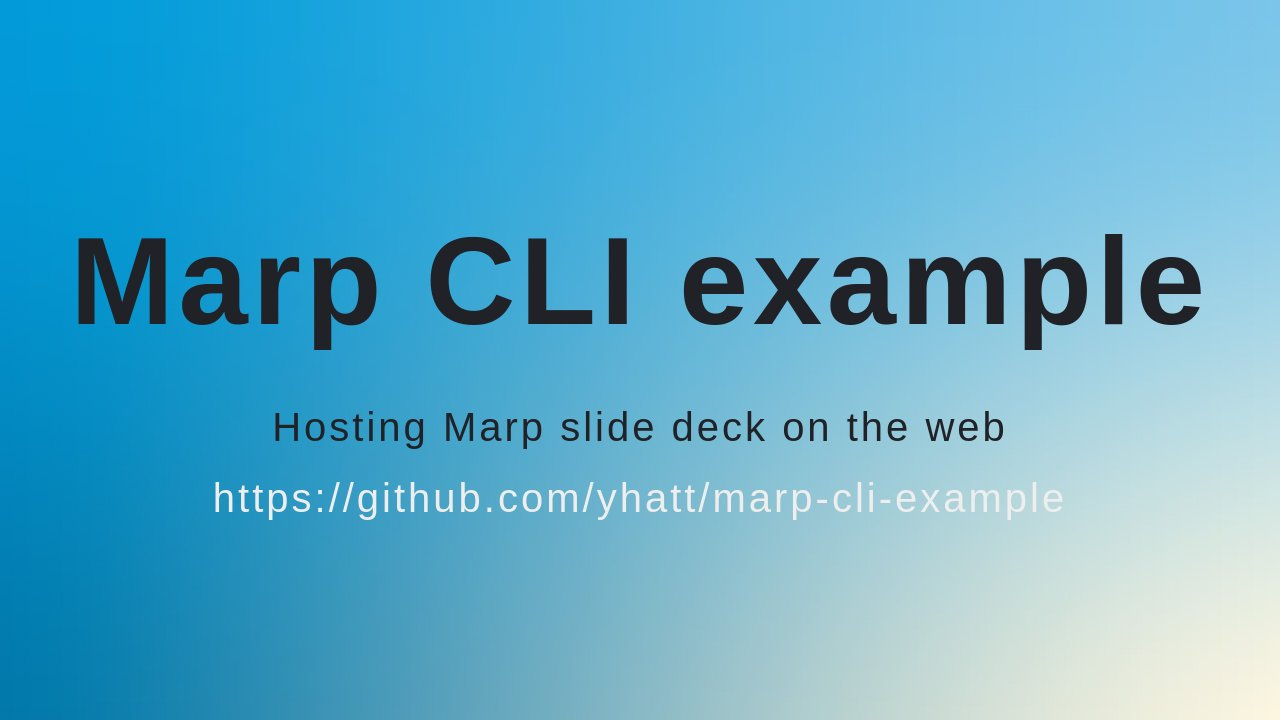
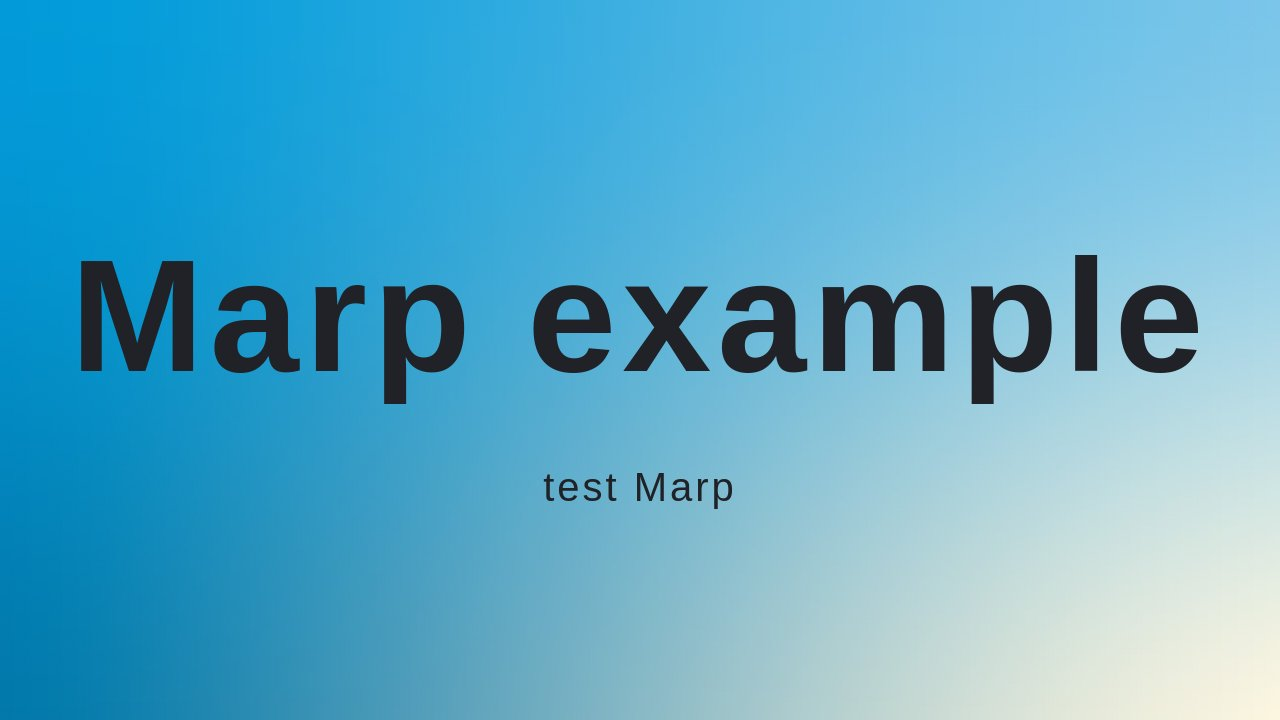
Deploying to gh-pages from  @ 6c0e94545520b8ba8a1bc487dbe098e0b320dc0a 🚀

Changed region(s): [[0.0625, 0.3056, 0.9375, 0.6417], [0.1562, 0.6417, 0.8438, 0.7333]]

diff --git a/index.html b/index.html
@@ -8,38 +8,14 @@
  * @auto-scaling fittingHeader,math
  * @size 16:9 1280px 720px
  * @size 4:3 960px 720px
[1 lines of base64/hex data omitted]
-<h1><svg data-marp-fitting="svg"><foreignObject><span data-marp-fitting-svg-content> Marp CLI example</span></foreignObject></svg></h1>
-<p>Hosting Marp slide deck on the web</p>
-<p><a href="https://github.com/yhatt/marp-cli-example">https://github.com/yhatt/marp-cli-example</a></p>
[1 lines of base64/hex data omitted]
+<h1><svg data-marp-fitting="svg"><foreignObject><span data-marp-fitting-svg-content> Marp  example</span></foreignObject></svg></h1>
+<p>test Marp</p>
 </section>
-</foreignObject><foreignObject width="1280" height="720" data-marpit-advanced-background="pseudo"><section style="" data-marpit-advanced-background="pseudo"></section></foreignObject></svg><svg data-marpit-svg="" viewBox="0 0 1280 720"><foreignObject width="1280" height="720"><section data-paginate="true" data-theme="uncover" data-marpit-pagination="2" data-marpit-pagination-total="8" style="--paginate:true;--theme:uncover;" data-marpit-advanced-background="background"><div data-marpit-advanced-background-container="true" data-marpit-advanced-background-direction="horizontal"><figure style="background-image:url(&quot;https://raw.githubusercontent.com/marp-team/marp/master/marp.png&quot;);background-size:60%;"></figure></div></section></foreignObject><foreignObject width="1280" height="720"><section id="2" data-paginate="true" data-theme="uncover" data-marpit-pagination="2" data-marpit-pagination-total="8" style="--paginate:true;--theme:uncover;" data-marpit-advanced-background="content"></section>
-</foreignObject><foreignObject width="1280" height="720" data-marpit-advanced-background="pseudo"><section style="" data-marpit-advanced-background="pseudo" data-marpit-pagination="2" data-marpit-pagination-total="8"></section></foreignObject></svg><svg data-marpit-svg="" viewBox="0 0 1280 720"><foreignObject width="1280" height="720"><section id="3" data-paginate="true" data-theme="uncover" data-background-color="#123" data-color="#fff" data-marpit-pagination="3" data-marpit-pagination-total="8" style="--paginate:true;--theme:uncover;--background-color:#123;--color:#fff;color:#fff;background-color:#123;background-image:none;">
-<h5><svg data-marp-fitting="svg"><foreignObject><span data-marp-fitting-svg-content> <a href="https://github.com/marp-team/marp-cli">Marp CLI</a> + <a href="https://github.com/pages">GitHub Pages</a> | <a href="https://www.netlify.com/">Netlify</a> | <a href="https://vercel.com/">Vercel</a></span></foreignObject></svg></h5>
-<h5><svg data-marp-fitting="svg"><foreignObject><span data-marp-fitting-svg-content> <img class="emoji" draggable="false" alt="👉" src="https://twemoji.maxcdn.com/2/svg/1f449.svg" data-marp-twemoji=""/> The easiest way to host<br />your Marp deck on the web</span></foreignObject></svg></h5>
-</section>
-</foreignObject></svg><svg data-marpit-svg="" viewBox="0 0 1280 720"><foreignObject width="1280" height="720"><section data-paginate="true" data-theme="uncover" data-marpit-pagination="4" data-marpit-pagination-total="8" style="--paginate:true;--theme:uncover;--marpit-advanced-background-split:50%;" data-marpit-advanced-background="background" data-marpit-advanced-background-split="right"><div data-marpit-advanced-background-container="true" data-marpit-advanced-background-direction="horizontal"><figure style="background-image:url(&quot;https://icongr.am/octicons/mark-github.svg&quot;);background-size:60%;"></figure></div></section></foreignObject><foreignObject width="50%" height="720"><section id="4" data-paginate="true" data-theme="uncover" data-marpit-pagination="4" data-marpit-pagination-total="8" style="--paginate:true;--theme:uncover;--marpit-advanced-background-split:50%;" data-marpit-advanced-background="content" data-marpit-advanced-background-split="right">
-<h2><strong><a href="https://github.com/pages">GitHub Pages</a></strong></h2>
-<h4>Ready to write &amp; host your deck!</h4>
-<p><a href="https://github.com/yhatt/marp-cli-example/generate"><img src="https://img.shields.io/badge/-Use%20this%20as%20template-brightgreen?style=for-the-badge&amp;logo=github" alt="Use this as template" style="height:1.5em;" /></a></p>
-</section>
-</foreignObject><foreignObject width="1280" height="720" data-marpit-advanced-background="pseudo"><section style="" data-marpit-advanced-background="pseudo" data-marpit-pagination="4" data-marpit-pagination-total="8"></section></foreignObject></svg><svg data-marpit-svg="" viewBox="0 0 1280 720"><foreignObject width="1280" height="720"><section data-paginate="true" data-theme="uncover" data-marpit-pagination="5" data-marpit-pagination-total="8" style="--paginate:true;--theme:uncover;--marpit-advanced-background-split:50%;" data-marpit-advanced-background="background" data-marpit-advanced-background-split="right"><div data-marpit-advanced-background-container="true" data-marpit-advanced-background-direction="horizontal"><figure style="background-image:url(&quot;https://icongr.am/simple/netlify.svg?colored&quot;);background-size:60%;"></figure></div></section></foreignObject><foreignObject width="50%" height="720"><section id="5" data-paginate="true" data-theme="uncover" data-marpit-pagination="5" data-marpit-pagination-total="8" style="--paginate:true;--theme:uncover;--marpit-advanced-background-split:50%;" data-marpit-advanced-background="content" data-marpit-advanced-background-split="right">
-<h2><strong><a href="https://www.netlify.com/">Netlify</a></strong></h2>
-<h4>Ready to write &amp; host your deck!</h4>
-<p><a href="https://app.netlify.com/start/deploy?repository=https://github.com/yhatt/marp-cli-example"><img src="./assets/netlify-deploy-button.svg" alt="Deploy to Netlify" style="height:1.5em;" /></a></p>
-</section>
-</foreignObject><foreignObject width="1280" height="720" data-marpit-advanced-background="pseudo"><section style="" data-marpit-advanced-background="pseudo" data-marpit-pagination="5" data-marpit-pagination-total="8"></section></foreignObject></svg><svg data-marpit-svg="" viewBox="0 0 1280 720"><foreignObject width="1280" height="720"><section data-paginate="true" data-theme="uncover" data-marpit-pagination="6" data-marpit-pagination-total="8" style="--paginate:true;--theme:uncover;--marpit-advanced-background-split:50%;" data-marpit-advanced-background="background" data-marpit-advanced-background-split="right"><div data-marpit-advanced-background-container="true" data-marpit-advanced-background-direction="horizontal"><figure style="background-image:url(&quot;https://icongr.am/simple/zeit.svg&quot;);background-size:60%;"></figure></div></section></foreignObject><foreignObject width="50%" height="720"><section id="6" data-paginate="true" data-theme="uncover" data-marpit-pagination="6" data-marpit-pagination-total="8" style="--paginate:true;--theme:uncover;--marpit-advanced-background-split:50%;" data-marpit-advanced-background="content" data-marpit-advanced-background-split="right">
-<h2><strong><a href="https://vercel.com/">Vercel</a></strong></h2>
-<h4>Ready to write &amp; host your deck!</h4>
-<p><a href="https://vercel.com/import/project?template=https://github.com/yhatt/marp-cli-example"><img src="https://vercel.com/button" alt="Deploy to Vercel" style="height:1.5em;" /></a></p>
-</section>
-</foreignObject><foreignObject width="1280" height="720" data-marpit-advanced-background="pseudo"><section style="" data-marpit-advanced-background="pseudo" data-marpit-pagination="6" data-marpit-pagination-total="8"></section></foreignObject></svg><svg data-marpit-svg="" viewBox="0 0 1280 720"><foreignObject width="1280" height="720"><section id="7" data-paginate="true" data-theme="uncover" data-marpit-pagination="7" data-marpit-pagination-total="8" style="--paginate:true;--theme:uncover;">
-<h3><svg data-marp-fitting="svg"><foreignObject><span data-marp-fitting-svg-content> <img class="emoji" draggable="false" alt="👌" src="https://twemoji.maxcdn.com/2/svg/1f44c.svg" data-marp-twemoji=""/></span></foreignObject></svg></h3>
-</section>
-</foreignObject></svg><svg data-marpit-svg="" viewBox="0 0 1280 720"><foreignObject width="1280" height="720"><section data-paginate="true" data-theme="uncover" data-marpit-pagination="8" data-marpit-pagination-total="8" style="--paginate:true;--theme:uncover;" data-marpit-advanced-background="background"><div data-marpit-advanced-background-container="true" data-marpit-advanced-background-direction="horizontal"><figure style="background-image:url(&quot;https://avatars1.githubusercontent.com/u/3993388?v=4&quot;);background-size:40%;filter:opacity(.5) blur(10px);"></figure></div></section></foreignObject><foreignObject width="1280" height="720"><section id="8" data-paginate="true" data-theme="uncover" data-marpit-pagination="8" data-marpit-pagination-total="8" style="--paginate:true;--theme:uncover;" data-marpit-advanced-background="content">
-<h3>Created by Yuki Hattori (<a href="https://github.com/yhatt">@yhatt</a>)</h3>
-<p><a href="https://github.com/yhatt/marp-cli-example">https://github.com/yhatt/marp-cli-example</a></p>
+</foreignObject><foreignObject width="1280" height="720" data-marpit-advanced-background="pseudo"><section style="" data-marpit-advanced-background="pseudo"></section></foreignObject></svg><svg data-marpit-svg="" viewBox="0 0 1280 720"><foreignObject width="1280" height="720"><section id="2" data-paginate="true" data-theme="uncover" data-marpit-pagination="2" data-marpit-pagination-total="2" style="--paginate:true;--theme:uncover;">
+<h2>Another slide</h2>
+<p>test</p>
 </section>
 <script>!function(){"use strict";const t="marpitSVGPolyfill:setZoomFactor,",e=Symbol();let r,o;function n(n){const i="object"==typeof n&&n.target||document,a="object"==typeof n?n.zoom:n;window[e]||(Object.defineProperty(window,e,{configurable:!0,value:!0}),window.addEventListener("message",(({data:e,origin:r})=>{if(r===window.origin)try{if(e&&"string"==typeof e&&e.startsWith(t)){const[,t]=e.split(","),r=Number.parseFloat(t);Number.isNaN(r)||(o=r)}}catch(t){console.error(t)}})));let l=!1;Array.from(i.querySelectorAll("svg[data-marpit-svg]"),(t=>{var e,n,i,s;t.style.transform||(t.style.transform="translateZ(0)");const c=a||o||t.currentScale||1;r!==c&&(r=c,l=c);const d=t.getBoundingClientRect(),{length:u}=t.children;for(let r=0;r<u;r+=1){const o=t.children[r],a=o.getScreenCTM();if(a){const t=null!==(n=null===(e=o.x)||void 0===e?void 0:e.baseVal.value)&&void 0!==n?n:0,r=null!==(s=null===(i=o.y)||void 0===i?void 0:i.baseVal.value)&&void 0!==s?s:0,l=o.firstElementChild,{style:u}=l;u.transformOrigin||(u.transformOrigin=`${-t}px ${-r}px`),u.transform=`scale(${c}) matrix(${a.a}, ${a.b}, ${a.c}, ${a.d}, ${a.e-d.left}, ${a.f-d.top}) translateZ(0.0001px)`}}})),!1!==l&&Array.from(i.querySelectorAll("iframe"),(({contentWindow:e})=>{null==e||e.postMessage(`${t}${l}`,"null"===window.origin?"*":window.origin)}))}r=1,o=void 0;const i=(t,e,r)=>{if(t.getAttribute(e)!==r)return t.setAttribute(e,r),!0};function a({once:t=!1,target:e=document}={}){const r="Apple Computer, Inc."===navigator.vendor?[n]:[];let o=!t;const a=()=>{for(const t of r)t({target:e});!function(t=document){Array.from(t.querySelectorAll('svg[data-marp-fitting="svg"]'),(t=>{var e;const r=t.firstChild,o=r.firstChild,{scrollWidth:n,scrollHeight:a}=o;let l,s=1;if(t.hasAttribute("data-marp-fitting-code")&&(l=null===(e=t.parentElement)||void 0===e?void 0:e.parentElement),t.hasAttribute("data-marp-fitting-math")&&(l=t.parentElement),l){const t=getComputedStyle(l),e=Math.ceil(l.clientWidth-parseFloat(t.paddingLeft||"0")-parseFloat(t.paddingRight||"0"));e&&(s=e)}const c=Math.max(n,s),d=Math.max(a,1),u=`0 0 ${c} ${d}`;i(r,"width",`${c}`),i(r,"height",`${d}`),i(t,"preserveAspectRatio",getComputedStyle(t).getPropertyValue("--preserve-aspect-ratio")||"xMinYMin meet"),i(t,"viewBox",u)&&t.classList.toggle("__reflow__")}))}(e),o&&window.requestAnimationFrame(a)};return a(),()=>{o=!1}}const l=Symbol(),s=document.currentScript;((t=document)=>{if("undefined"==typeof window)throw new Error("Marp Core's browser script is valid only in browser context.");if(t[l])return t[l];const e=a({target:t}),r=()=>{e(),delete t[l]};Object.defineProperty(t,l,{configurable:!0,value:r})})(s?s.getRootNode():document)}();
-</script></foreignObject><foreignObject width="1280" height="720" data-marpit-advanced-background="pseudo"><section style="" data-marpit-advanced-background="pseudo" data-marpit-pagination="8" data-marpit-pagination-total="8"></section></foreignObject></svg></div><div class="bespoke-marp-note" data-index="0" tabindex="0"><p>This is presenter note. You can write down notes through HTML comment.</p></div><script>/*!! License: https://unpkg.com/@marp-team/marp-cli@1.5.1/lib/bespoke.js.LICENSE.txt */
+</script></foreignObject></svg></div><div class="bespoke-marp-note" data-index="0" tabindex="0"><p>This is presenter note. You can write down notes through HTML comment.</p></div><script>/*!! License: https://unpkg.com/@marp-team/marp-cli@1.5.1/lib/bespoke.js.LICENSE.txt */
 !function(){"use strict";const e=document.body,t=(...e)=>history.replaceState(...e),n="presenter",r="next",o=["",n,r],a="data-bespoke-marp-",i=(e,{protocol:t,host:n,pathname:r,hash:o}=location)=>{const a=e.toString();return`${t}//${n}${r}${a?"?":""}${a}${o}`},s=()=>e.dataset.bespokeView,l=e=>new URLSearchParams(location.search).get(e),c=(e,n={})=>{var r;const o={location,setter:t,...n},a=new URLSearchParams(o.location.search);for(const t of Object.keys(e)){const n=e[t];"string"==typeof n?a.set(t,n):a.delete(t)}try{o.setter({...null!==(r=window.history.state)&&void 0!==r?r:{}},"",i(a,o.location))}catch(e){console.error(e)}},d=(()=>{const e="bespoke-marp";try{return localStorage.setItem(e,e),localStorage.removeItem(e),!0}catch(e){return!1}})(),f=e=>{try{return localStorage.getItem(e)}catch(e){return null}},u=(e,t)=>{try{return localStorage.setItem(e,t),!0}catch(e){return!1}},m=e=>{try{return localStorage.removeItem(e),!0}catch(e){return!1}},g=(e,t)=>{const n="aria-hidden";t?e.setAttribute(n,"true"):e.removeAttribute(n)},p=e=>{e.parent.classList.add("bespoke-marp-parent"),e.slides.forEach((e=>e.classList.add("bespoke-marp-slide"))),e.on("activate",(t=>{const n="bespoke-marp-active",r=t.slide,o=r.classList,a=!o.contains(n);if(e.slides.forEach((e=>{e.classList.remove(n),g(e,!0)})),o.add(n),g(r,!1),a){const e=`${n}-ready`;o.add(e),document.body.clientHeight,o.remove(e)}}))},v=e=>{let t=0,n=0;Object.defineProperty(e,"fragments",{enumerable:!0,value:e.slides.map((e=>[null,...e.querySelectorAll("[data-marpit-fragment]")]))});const r=r=>void 0!==e.fragments[t][n+r],o=(r,o)=>{t=r,n=o,e.fragments.forEach(((e,t)=>{e.forEach(((e,n)=>{if(null==e)return;const i=t<r||t===r&&n<=o;e.setAttribute(`${a}fragment`,(i?"":"in")+"active");const s=`${a}current-fragment`;t===r&&n===o?e.setAttribute(s,"current"):e.removeAttribute(s)}))})),e.fragmentIndex=o;const i={slide:e.slides[r],index:r,fragments:e.fragments[r],fragmentIndex:o};e.fire("fragment",i)};e.on("next",(({fragment:a=!0})=>{if(a){if(r(1))return o(t,n+1),!1;const a=t+1;e.fragments[a]&&o(a,0)}else{const r=e.fragments[t].length;if(n+1<r)return o(t,r-1),!1;const a=e.fragments[t+1];a&&o(t+1,a.length-1)}})),e.on("prev",(({fragment:a=!0})=>{if(r(-1)&&a)return o(t,n-1),!1;const i=t-1;e.fragments[i]&&o(i,e.fragments[i].length-1)})),e.on("slide",(({index:t,fragment:n})=>{let r=0;if(void 0!==n){const o=e.fragments[t];if(o){const{length:e}=o;r=-1===n?e-1:Math.min(Math.max(n,0),e-1)}}o(t,r)})),o(0,0)},h=document,y=()=>!(!h.fullscreenEnabled&&!h.webkitFullscreenEnabled),x=()=>!(!h.fullscreenElement&&!h.webkitFullscreenElement),w=e=>{e.fullscreen=()=>{y()&&(async()=>{return x()?null===(e=h.exitFullscreen||h.webkitExitFullscreen)||void 0===e?void 0:e.call(h):((e=h.body)=>{var t;return null===(t=e.requestFullscreen||e.webkitRequestFullscreen)||void 0===t?void 0:t.call(e)})();var e})()},document.addEventListener("keydown",(t=>{"f"!==t.key&&"F11"!==t.key||t.altKey||t.ctrlKey||t.metaKey||!y()||(e.fullscreen(),t.preventDefault())}))},b="bespoke-marp-inactive",k=(e=2e3)=>({parent:t,fire:n})=>{const r=t.classList,o=e=>n(`marp-${e?"":"in"}active`);let a;const i=()=>{a&&clearTimeout(a),a=setTimeout((()=>{r.add(b),o()}),e),r.contains(b)&&(r.remove(b),o(!0))};for(const e of["mousedown","mousemove","touchend"])document.addEventListener(e,i);setTimeout(i,0)},E=["AUDIO","BUTTON","INPUT","SELECT","TEXTAREA","VIDEO"],L=e=>{e.parent.addEventListener("keydown",(e=>{if(!e.target)return;const t=e.target;(E.includes(t.nodeName)||"true"===t.contentEditable)&&e.stopPropagation()}))},$=e=>{window.addEventListener("load",(()=>{for(const t of e.slides){const e=t.querySelector("[data-marp-fitting]")?"":"hideable";t.setAttribute(`${a}load`,e)}}))},P=({interval:e=250}={})=>t=>{document.addEventListener("keydown",(e=>{if(" "===e.key&&e.shiftKey)t.prev();else if("ArrowLeft"===e.key||"ArrowUp"===e.key||"PageUp"===e.key)t.prev({fragment:!e.shiftKey});else if(" "!==e.key||e.shiftKey)if("ArrowRight"===e.key||"ArrowDown"===e.key||"PageDown"===e.key)t.next({fragment:!e.shiftKey});else if("End"===e.key)t.slide(t.slides.length-1,{fragment:-1});else{if("Home"!==e.key)return;t.slide(0)}else t.next();e.preventDefault()}));let n,r,o=0;t.parent.addEventListener("wheel",(a=>{let i=!1;const s=(e,t)=>{e&&(i=i||((e,t)=>((e,t)=>{const n="X"===t?"Width":"Height";return e[`client${n}`]<e[`scroll${n}`]})(e,t)&&((e,t)=>{const{overflow:n}=e,r=e[`overflow${t}`];return"auto"===n||"scroll"===n||"auto"===r||"scroll"===r})(getComputedStyle(e),t))(e,t)),(null==e?void 0:e.parentElement)&&s(e.parentElement,t)};if(0!==a.deltaX&&s(a.target,"X"),0!==a.deltaY&&s(a.target,"Y"),i)return;a.preventDefault();const l=Math.sqrt(a.deltaX**2+a.deltaY**2);if(void 0!==a.wheelDelta){if(void 0===a.webkitForce&&Math.abs(a.wheelDelta)<40)return;if(a.deltaMode===a.DOM_DELTA_PIXEL&&l<4)return}else if(a.deltaMode===a.DOM_DELTA_PIXEL&&l<12)return;r&&clearTimeout(r),r=setTimeout((()=>{n=0}),e);const c=Date.now()-o<e,d=l<=n;if(n=l,c||d)return;let f;(a.deltaX>0||a.deltaY>0)&&(f="next"),(a.deltaX<0||a.deltaY<0)&&(f="prev"),f&&(t[f](),o=Date.now())}))},S=(e=".bespoke-marp-osc")=>{const t=document.querySelector(e);if(!t)return()=>{};const n=(e,n)=>{t.querySelectorAll(`[${a}osc=${JSON.stringify(e)}]`).forEach(n)};return y()||n("fullscreen",(e=>e.style.display="none")),d||n("presenter",(e=>{e.disabled=!0,e.title="Presenter view is disabled due to restricted localStorage."})),e=>{t.addEventListener("click",(t=>{if(t.target instanceof HTMLElement){const{bespokeMarpOsc:n}=t.target.dataset;n&&t.target.blur();const r={fragment:!t.shiftKey};"next"===n?e.next(r):"prev"===n?e.prev(r):"fullscreen"===n?null==e||e.fullscreen():"presenter"===n&&e.openPresenterView()}})),e.parent.appendChild(t),e.on("activate",(({index:t})=>{n("page",(n=>n.textContent=`Page ${t+1} of ${e.slides.length}`))})),e.on("fragment",(({index:t,fragments:r,fragmentIndex:o})=>{n("prev",(e=>e.disabled=0===t&&0===o)),n("next",(n=>n.disabled=t===e.slides.length-1&&o===r.length-1))})),e.on("marp-active",(()=>g(t,!1))),e.on("marp-inactive",(()=>g(t,!0))),y()&&(e=>{for(const t of["","webkit"])h.addEventListener(t+"fullscreenchange",e)})((()=>n("fullscreen",(e=>e.classList.toggle("exit",y()&&x())))))}},I=e=>{window.addEventListener("message",(t=>{if(t.origin!==window.origin)return;const[n,r]=t.data.split(":");if("navigate"===n){const[t,n]=r.split(",");let o=Number.parseInt(t,10),a=Number.parseInt(n,10)+1;a>=e.fragments[o].length&&(o+=1,a=0),e.slide(o,{fragment:a})}}))};var T=["area","base","br","col","command","embed","hr","img","input","keygen","link","meta","param","source","track","wbr"];let A=e=>String(e).replace(/[&<>"']/g,(e=>`&${C[e]};`)),C={"&":"amp","<":"lt",">":"gt",'"':"quot","'":"apos"},N="dangerouslySetInnerHTML",K={className:"class",htmlFor:"for"},O={};function D(e,t){let n=[],r="";t=t||{};for(let e=arguments.length;e-- >2;)n.push(arguments[e]);if("function"==typeof e)return t.children=n.reverse(),e(t);if(e){if(r+="<"+e,t)for(let e in t)!1!==t[e]&&null!=t[e]&&e!==N&&(r+=` ${K[e]?K[e]:A(e)}="${A(t[e])}"`);r+=">"}if(-1===T.indexOf(e)){if(t[N])r+=t[N].__html;else for(;n.length;){let e=n.pop();if(e)if(e.pop)for(let t=e.length;t--;)n.push(e[t]);else r+=!0===O[e]?e:A(e)}r+=e?`</${e}>`:""}return O[r]=!0,r}const M=({children:e})=>D(null,null,...e),q="bespoke-marp-presenter-",_={container:`${q}container`,next:`${q}next`,nextContainer:`${q}next-container`,noteContainer:`${q}note-container`,infoContainer:`${q}info-container`,infoPage:`${q}info-page`,infoPageText:`${q}info-page-text`,infoPagePrev:`${q}info-page-prev`,infoPageNext:`${q}info-page-next`,infoTime:`${q}info-time`,infoTimer:`${q}info-timer`},U=e=>{const{title:t}=document;document.title="[Presenter view]"+(t?` - ${t}`:"");const n={},r=e=>(n[e]=n[e]||document.querySelector(`.${e}`),n[e]);document.body.appendChild((e=>{const t=document.createElement("div");return t.className=_.container,t.appendChild(e),t.insertAdjacentHTML("beforeend",D(M,null,D("div",{class:_.nextContainer},D("iframe",{class:_.next,src:"?view=next"})),D("div",{class:_.noteContainer}),D("div",{class:_.infoContainer},D("div",{class:_.infoPage},D("button",{class:_.infoPagePrev,tabindex:"-1",title:"Previous"},"Previous"),D("span",{class:_.infoPageText}),D("button",{class:_.infoPageNext,tabindex:"-1",title:"Next"},"Next")),D("time",{class:_.infoTime,title:"Current time"}),D("div",{class:_.infoTimer})))),t})(e.parent)),(e=>{r(_.nextContainer).addEventListener("click",(()=>e.next()));const t=r(_.next),n=(o=t,(e,t)=>{var n;return null===(n=o.contentWindow)||void 0===n?void 0:n.postMessage(`navigate:${e},${t}`,"null"===window.origin?"*":window.origin)});var o;t.addEventListener("load",(()=>{r(_.nextContainer).classList.add("active"),n(e.slide(),e.fragmentIndex),e.on("fragment",(({index:e,fragmentIndex:t})=>n(e,t)))}));const a=document.querySelectorAll(".bespoke-marp-note");a.forEach((e=>{e.addEventListener("keydown",(e=>e.stopPropagation())),r(_.noteContainer).appendChild(e)})),e.on("activate",(()=>a.forEach((t=>t.classList.toggle("active",t.dataset.index==e.slide()))))),e.on("activate",(({index:t})=>{r(_.infoPageText).textContent=`${t+1} / ${e.slides.length}`}));const i=r(_.infoPagePrev),s=r(_.infoPageNext);i.addEventListener("click",(t=>{i.blur(),e.prev({fragment:!t.shiftKey})})),s.addEventListener("click",(t=>{s.blur(),e.next({fragment:!t.shiftKey})})),e.on("fragment",(({index:t,fragments:n,fragmentIndex:r})=>{i.disabled=0===t&&0===r,s.disabled=t===e.slides.length-1&&r===n.length-1}));const l=()=>r(_.infoTime).textContent=(new Date).toLocaleTimeString();l(),setInterval(l,250)})(e)},V=e=>{if(!(e=>e.syncKey&&"string"==typeof e.syncKey)(e))throw new Error("The current instance of Bespoke.js is invalid for Marp bespoke presenter plugin.");Object.defineProperties(e,{openPresenterView:{enumerable:!0,value:X},presenterUrl:{enumerable:!0,get:F}}),d&&document.addEventListener("keydown",(t=>{"p"!==t.key||t.altKey||t.ctrlKey||t.metaKey||(t.preventDefault(),e.openPresenterView())}))};function X(){const{max:e,floor:t}=Math,n=e(t(.85*window.innerWidth),640),r=e(t(.85*window.innerHeight),360);return window.open(this.presenterUrl,q+this.syncKey,`width=${n},height=${r},menubar=no,toolbar=no`)}function F(){const e=new URLSearchParams(location.search);return e.set("view","presenter"),e.set("sync",this.syncKey),i(e)}const B=e=>{const t=s();return t===r&&e.appendChild(document.createElement("span")),{"":V,[n]:U,[r]:I}[t]},R=e=>{e.on("activate",(t=>{document.querySelectorAll(".bespoke-progress-parent > .bespoke-progress-bar").forEach((n=>{n.style.flexBasis=100*t.index/(e.slides.length-1)+"%"}))}))},j=e=>{const t=Number.parseInt(e,10);return Number.isNaN(t)?null:t},H=(e={})=>{const t={history:!0,...e};return e=>{let n=!0;const r=e=>{const t=n;try{return n=!0,e()}finally{n=t}},o=(t={fragment:!0})=>{((t,n)=>{const{min:r,max:o}=Math,{fragments:a,slides:i}=e,s=o(0,r(t,i.length-1)),l=o(0,r(n||0,a[s].length-1));s===e.slide()&&l===e.fragmentIndex||e.slide(s,{fragment:l})})((j(location.hash.slice(1))||1)-1,t.fragment?j(l("f")||""):null)};e.on("fragment",(({index:e,fragmentIndex:r})=>{n||c({f:0===r||r.toString()},{location:{...location,hash:`#${e+1}`},setter:(...e)=>t.history?history.pushState(...e):history.replaceState(...e)})})),setTimeout((()=>{o(),window.addEventListener("hashchange",(()=>r((()=>{o({fragment:!1}),c({f:void 0})})))),window.addEventListener("popstate",(()=>{n||r((()=>o()))})),n=!1}),0)}},Y=(e={})=>{var n;const r=e.key||(null===(n=window.history.state)||void 0===n?void 0:n.marpBespokeSyncKey)||Math.random().toString(36).slice(2),o=`bespoke-marp-sync-${r}`;var a;a={marpBespokeSyncKey:r},c({},{setter:(e,...n)=>t({...e,...a},...n)});const i=()=>{const e=f(o);return e?JSON.parse(e):Object.create(null)},s=e=>{const t=i(),n={...t,...e(t)};return u(o,JSON.stringify(n)),n},l=()=>{window.removeEventListener("pageshow",l),s((e=>({reference:(e.reference||0)+1})))};return e=>{l(),Object.defineProperty(e,"syncKey",{value:r,enumerable:!0});let t=!0;setTimeout((()=>{e.on("fragment",(e=>{t&&s((()=>({index:e.index,fragmentIndex:e.fragmentIndex})))}))}),0),window.addEventListener("storage",(n=>{if(n.key===o&&n.oldValue&&n.newValue){const r=JSON.parse(n.oldValue),o=JSON.parse(n.newValue);if(r.index!==o.index||r.fragmentIndex!==o.fragmentIndex)try{t=!1,e.slide(o.index,{fragment:o.fragmentIndex})}finally{t=!0}}}));const n=()=>{const{reference:e}=i();void 0===e||e<=1?m(o):s((()=>({reference:e-1})))};window.addEventListener("pagehide",(e=>{e.persisted&&window.addEventListener("pageshow",l),n()})),e.on("destroy",n)}},{PI:J,abs:W,sqrt:z,atan2:G}=Math,Q={passive:!0},Z=({slope:e=-.7,swipeThreshold:t=30}={})=>n=>{let r;const o=n.parent,a=e=>{const t=o.getBoundingClientRect();return{x:e.pageX-(t.left+t.right)/2,y:e.pageY-(t.top+t.bottom)/2}};o.addEventListener("touchstart",(({touches:e})=>{r=1===e.length?a(e[0]):void 0}),Q),o.addEventListener("touchmove",(e=>{if(r)if(1===e.touches.length){e.preventDefault();const t=a(e.touches[0]),n=t.x-r.x,o=t.y-r.y;r.delta=z(W(n)**2+W(o)**2),r.radian=G(n,o)}else r=void 0})),o.addEventListener("touchend",(o=>{if(r){if(r.delta&&r.delta>=t&&r.radian){const t=(r.radian-e+J)%(2*J)-J;n[t<0?"next":"prev"](),o.stopPropagation()}r=void 0}}),Q)},ee="_tA",te=e=>{const t=document.documentTransition;if(!t)return;let n;e._tP=!1;const r=(n,{back:r,cond:o})=>a=>{const i=e.slides[e.slide()].querySelector("section[data-transition]");if(!i)return!0;const s=document.querySelector(".bespoke-marp-osc"),l=s?[s]:void 0;if(e._tP){if(a._tA){e._tP=!1;try{t.start({sharedElements:l}).catch((()=>{}))}catch(e){}return!0}}else{if(!o(a))return!0;e._tP=t.prepare({rootTransition:a.back||r?i.dataset.transitionBack:i.dataset.transition,sharedElements:l}).then((()=>n(a))).catch((()=>n(a)))}return!1};e.on("prev",r((t=>e.prev({...t,[ee]:!0})),{back:!0,cond:e=>{var t;return e.index>0&&!((null===(t=e.fragment)||void 0===t||t)&&n.fragmentIndex>0)}})),e.on("next",r((t=>e.next({...t,[ee]:!0})),{cond:t=>t.index+1<e.slides.length&&!(n.fragmentIndex+1<n.fragments.length)})),setTimeout((()=>{e.on("slide",r((t=>e.slide(t.index,{...t,[ee]:!0})),{cond:t=>{const n=e.slide();return t.index!==n&&(t.back=t.index<n,!0)}}))}),0),e.on("fragment",(e=>{n=e}))};let ne;const re=()=>(void 0===ne&&(ne="wakeLock"in navigator&&navigator.wakeLock),ne),oe=async()=>{const e=re();if(e)try{return await e.request("screen")}catch(e){console.warn(e)}return null},ae=async()=>{if(!re())return;let e;const t=()=>{e&&"visible"===document.visibilityState&&oe()};for(const e of["visibilitychange","fullscreenchange"])document.addEventListener(e,t);return e=await oe(),e};((t=document.getElementById("p"))=>{(()=>{const t=l("view");e.dataset.bespokeView=t===r||t===n?t:""})();const a=(e=>{const t=l(e);return c({[e]:void 0}),t})("sync")||void 0;var i,d,f,u,m,g,h,y,x,b,E,I;i=t,d=((...e)=>{const t=o.findIndex((e=>s()===e));return e.map((([e,n])=>e[t]&&n)).filter((e=>e))})([[1,1,0],Y({key:a})],[[1,1,1],B(t)],[[1,1,0],L],[[1,1,1],p],[[1,0,0],k()],[[1,1,1],$],[[1,1,1],H({history:!1})],[[1,1,0],P()],[[1,1,0],w],[[1,0,0],R],[[1,1,0],Z()],[[1,0,0],S()],[[1,0,0],te],[[1,1,1],v],[[1,1,0],ae]),u=1===(i.parent||i).nodeType?i.parent||i:document.querySelector(i.parent||i),m=[].filter.call("string"==typeof i.slides?u.querySelectorAll(i.slides):i.slides||u.children,(function(e){return"SCRIPT"!==e.nodeName})),g={},h=function(e,t){return(t=t||{}).index=m.indexOf(e),t.slide=e,t},b=function(e,t){m[e]&&(f&&x("deactivate",h(f,t)),f=m[e],x("activate",h(f,t)))},E=function(e,t){var n=m.indexOf(f)+e;x(e>0?"next":"prev",h(f,t))&&b(n,t)},I={off:y=function(e,t){g[e]=(g[e]||[]).filter((function(e){return e!==t}))},on:function(e,t){return(g[e]||(g[e]=[])).push(t),y.bind(null,e,t)},fire:x=function(e,t){return(g[e]||[]).reduce((function(e,n){return e&&!1!==n(t)}),!0)},slide:function(e,t){if(!arguments.length)return m.indexOf(f);x("slide",h(m[e],t))&&b(e,t)},next:E.bind(null,1),prev:E.bind(null,-1),parent:u,slides:m,destroy:function(e){x("destroy",h(f,e)),g={}}},(d||[]).forEach((function(e){e(I)})),f||b(0)})()}();</script></body></html>
